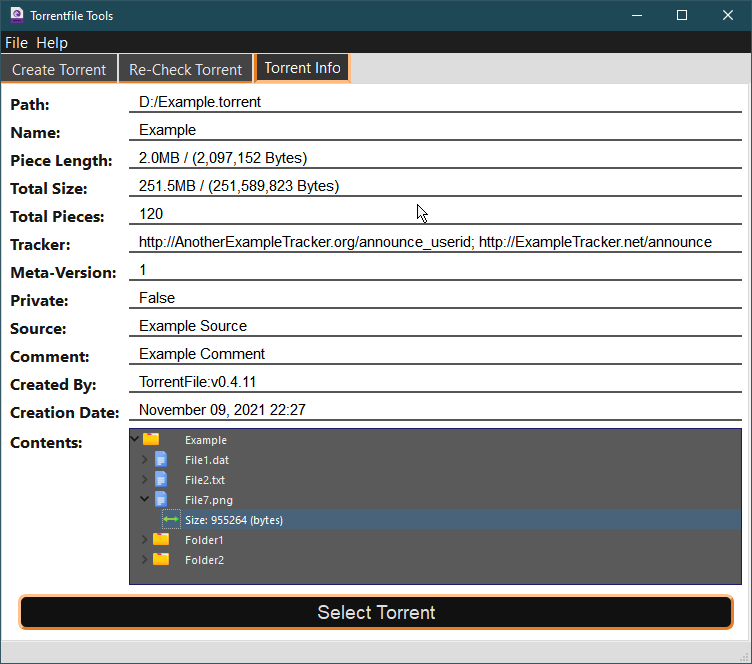
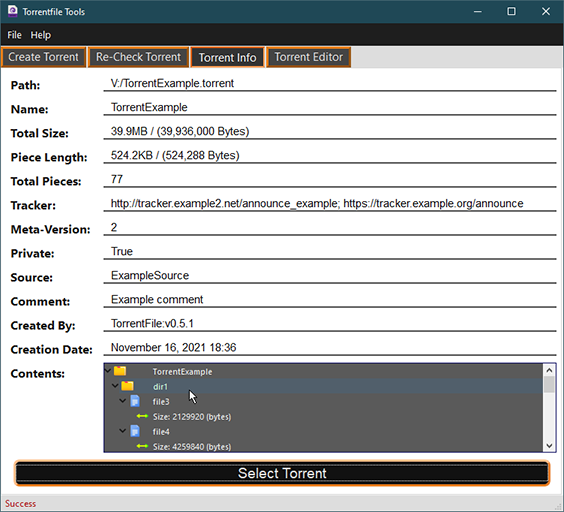
update to readme and bug fixes

diff --git a/torrentfileQt/infoTab.py b/torrentfileQt/infoTab.py
@@ -140,31 +140,31 @@ class InfoWidget(QWidget):
         self.dateCreatedEdit = InfoLineEdit(parent=self)
         self.createdByEdit = InfoLineEdit(parent=self)
         self.layout.addWidget(self.pathLabel, 0, 0, 1, 1)
-        self.layout.addWidget(self.pathEdit, 0, 1, 1, 1)
+        self.layout.addWidget(self.pathEdit, 0, 1, 1, -1)
         self.layout.addWidget(self.nameLabel, 1, 0, 1, 1)
-        self.layout.addWidget(self.nameEdit, 1, 1, 1, 1)
-        self.layout.addWidget(self.pieceLengthLabel, 2, 0, 1, 1)
-        self.layout.addWidget(self.pieceLengthEdit, 2, 1, 1, 1)
-        self.layout.addWidget(self.sizeLabel, 3, 0, 1, 1)
-        self.layout.addWidget(self.sizeEdit, 3, 1, 1, 1)
+        self.layout.addWidget(self.nameEdit, 1, 1, 1, -1)
+        self.layout.addWidget(self.sizeLabel, 2, 0, 1, 1)
+        self.layout.addWidget(self.sizeEdit, 2, 1, 1, -1)
+        self.layout.addWidget(self.pieceLengthLabel, 3, 0, 1, 1)
+        self.layout.addWidget(self.pieceLengthEdit, 3, 1, 1, -1)
         self.layout.addWidget(self.totalPiecesLabel, 4, 0, 1, 1)
-        self.layout.addWidget(self.totalPiecesEdit, 4, 1, 1, 1)
+        self.layout.addWidget(self.totalPiecesEdit, 4, 1, 1, -1)
         self.layout.addWidget(self.trackerLabel, 5, 0, 1, 1)
-        self.layout.addWidget(self.trackerEdit, 5, 1, 1, 1)
+        self.layout.addWidget(self.trackerEdit, 5, 1, 1, -1)
         self.layout.addWidget(self.metaVersionLabel, 6, 0, 1, 1)
-        self.layout.addWidget(self.metaVersionEdit, 6, 1, 1, 1)
+        self.layout.addWidget(self.metaVersionEdit, 6, 1, 1, -1)
         self.layout.addWidget(self.privateLabel, 7, 0, 1, 1)
-        self.layout.addWidget(self.privateEdit, 7, 1, 1, 1)
+        self.layout.addWidget(self.privateEdit, 7, 1, 1, -1)
         self.layout.addWidget(self.sourceLabel, 8, 0, 1, 1)
-        self.layout.addWidget(self.sourceEdit, 8, 1, 1, 1)
+        self.layout.addWidget(self.sourceEdit, 8, 1, 1, -1)
         self.layout.addWidget(self.commentLabel, 9, 0, 1, 1)
-        self.layout.addWidget(self.commentEdit, 9, 1, 1, 1)
+        self.layout.addWidget(self.commentEdit, 9, 1, 1, -1)
         self.layout.addWidget(self.createdByLabel, 10, 0, 1, 1)
-        self.layout.addWidget(self.createdByEdit, 10, 1, 1, 1)
+        self.layout.addWidget(self.createdByEdit, 10, 1, 1, -1)
         self.layout.addWidget(self.dateCreatedLabel, 11, 0, 1, 1)
-        self.layout.addWidget(self.dateCreatedEdit, 11, 1, 1, 1)
+        self.layout.addWidget(self.dateCreatedEdit, 11, 1, 1, -1)
         self.layout.addWidget(self.contentsLabel, 12, 0, 1, 1)
-        self.layout.addWidget(self.contentsTree, 12, 1, 5, 1)
+        self.layout.addWidget(self.contentsTree, 12, 1, 4, -1)
         self.selectButton = SelectButton("Select Torrent", parent=self)
         self.layout.addWidget(self.selectButton, 17, 0, -1, -1)
 

diff --git a/torrentfileQt/qss.py b/torrentfileQt/qss.py
@@ -158,11 +158,11 @@ menuSheet = """
         padding-bottom: 2px;
     }
     QMenuBar {
-        font-size: 11pt;
+        font-size: 10pt;
         background:rgb(30, 30, 30);
         color: #FFFFFF;
         margin-bottom: 1px;
-        padding-bottom: 2px;
+        padding: 3px;
     }
     QMenuBar::item {
         spacing: 3px;
@@ -201,6 +201,7 @@ menuSheet = """
     }
     QMenu::item {
         border-style: solid;
+        font-size: 10px;
         border-top-color: transparent;
         border-right-color: transparent;
         border-left-color: transparent;
@@ -298,26 +299,27 @@ pushButtonSheet = """
 push2ButtonSheet = """
     QPushButton {
         border-style: outset;
-        border-top-color: #e67e22;
-        border-right-color: #e67e22;
-        border-left-color: #e67e22;
+        border-top-color: transparent;
+        border-right-color: transparent;
+        border-left-color: transparent;
         border-bottom-color: #e67e22;
         border-bottom-width: 1px;
         border-style: solid;
         color: #FEFEFE;
-        padding: 2px;
+        padding-top: 5px;
+        padding-bottom: 5px;
+        margin: 2px;
         background-color: #444;
     }
     QPushButton:hover{
         border-style: outset;
         border-top-color: transparent;
-        border-right-color: transparent;
-        border-left-color: transparent;
+        border-right-color: #d65e22;
+        border-left-color: #d65e22;
         border-bottom-color: #e67e22;
-        border-bottom-width: 2px;
+        border-width: 2px;
         border-style: solid;
         color: #FFFFFF;
-        padding-bottom: 1px;
         background-color: #000000;
     }
     """
@@ -358,7 +360,8 @@ toolButtonSheet = """
 checkBoxSheet = """
     QCheckBox {
         color: #000;
-        padding: 6px;
+        padding: 4px;
+        font-size: 15px;
     }
     QCheckBox:disabled {
         color: #808086;
@@ -458,7 +461,7 @@ radioButtonSheet = """
 lineEditSheet = """
     QLineEdit {
         border-color: #1a1a1a;
-        font-size: 10pt;
+        font-size: 12pt;
         border-width: 1px;
         border-radius: 4px;
         border-style: inset;
@@ -517,7 +520,7 @@ comboBoxSheet = """
     QComboBox {
         color: #FFF;
         background: #3a3a3a;
-        font-size: 10pt;
+        font-size: 12pt;
     }
     QComboBox:editable {
         background: #1e1d23;

diff --git a/torrentfileQt/editorTab.py b/torrentfileQt/editorTab.py
@@ -115,10 +115,10 @@ class FileButton(QToolButton):
         """Browse method for finding the .torrent file user wishes to edit."""
         if not path:  # pragma: no coverage
             path = QFileDialog.getOpenFileName(
-                directory=Path().home,
+                directory=str(Path().home),
                 caption="Select Torrent File",
                 filter="*.torrent"
-            )
+            )[0]
         self.widget.table.clear()
         self.widget.line.setText(path)
         self.widget.table.handleTorrent.emit(path)
@@ -169,8 +169,6 @@ class Table(QTableWidget):
             item2.setText(str(v))
             self.setItem(counter, 1, item2)
             counter += 1
-        self.resizeRowsToContents()
-        self.resizeColumnsToContents()
 
     def flatten_data(self, data):
         """Flatten the meta dictionary found in the selected .torrent file."""

diff --git a/torrentfileQt/version.py b/torrentfileQt/version.py
@@ -15,4 +15,4 @@
 ##############################################################################
 """Application version id tag."""
 
-__version__ = "0.2.2"
+__version__ = "0.2.3"

diff --git a/README.md b/README.md
@@ -8,7 +8,6 @@
 [![codecov](https://codecov.io/gh/alexpdev/torrentfileQt/branch/main/graph/badge.svg?token=S5Q9CRD6C2)](https://codecov.io/gh/alexpdev/torrentfileQt)
 ![PyPI - Downloads](https://img.shields.io/pypi/dw/torrentfileQt?style=plastic)
 ![PyPI - License](https://img.shields.io/pypi/l/torrentfileQt?color=orange&style=plastic)
-![Codecov](https://img.shields.io/codecov/c/github/alexpdev/torrentfileQt)
 
 TorrentFileQt is a GUI Frontend for [TorrentFile CLI](https://github.com/alexpdev/torrentfile) project.
 
@@ -19,6 +18,7 @@ TorrentFileQt is a GUI Frontend for [TorrentFile CLI](https://github.com/alexpde
 - Bittorrent v1, v2 and hybrid .torrent files supported
 - Check if a .torrent file contents are in filesystem
 - Check progress or percentage complete for .torrent file
+- Edit torrent files.
 
 ### Screenshots
 
@@ -31,3 +31,7 @@ TorrentFileQt is a GUI Frontend for [TorrentFile CLI](https://github.com/alexpde
 -------
 
 ![infoTab.png](./assets/infoTab.png)
+
+-------
+
+![infoTab.png](./assets/editorTab.png)
